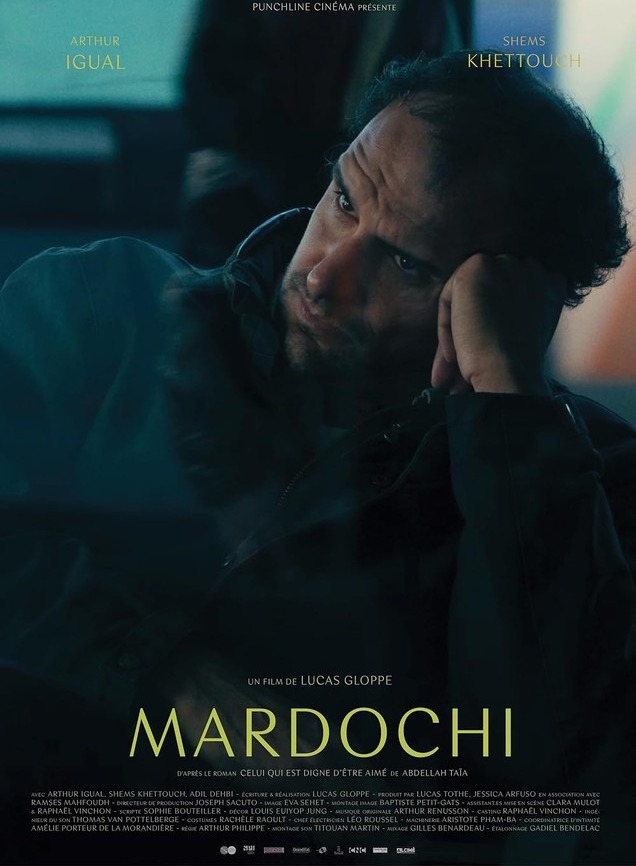
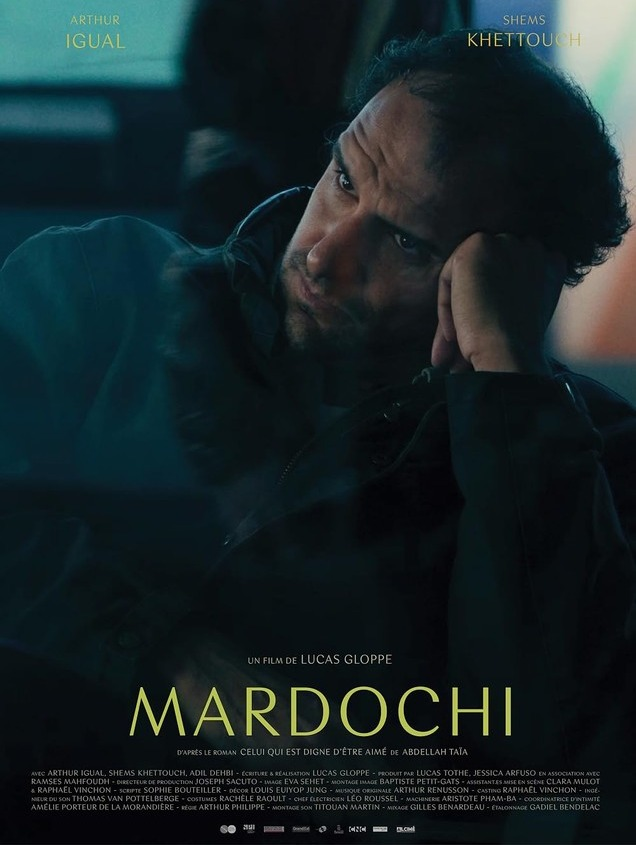
Mardochi: retire seulement Punchline, garde les noms des comédiens avec un peu d'air, même hauteur que les voisines

diff --git a/index.html b/index.html
@@ -119,7 +119,7 @@
         <div class="poster-wall__divider"></div>
         <img class="poster--short" src="assets/wall/la-ligne-de-vie-poster-v15.jpg" alt="Affiche La ligne de vie" loading="lazy" data-film="la-ligne-de-vie">
         <img class="poster--short" src="assets/wall/pauvres-diables-poster.jpg" alt="Affiche Pauvres Diables" loading="lazy" data-film="pauvres-diables">
-        <img class="poster--natural" src="assets/wall/mardochi-poster.jpg" alt="Affiche Mardochi" loading="lazy" data-film="mardochi">
+        <img class="poster--short" src="assets/wall/mardochi-poster.jpg" alt="Affiche Mardochi" loading="lazy" data-film="mardochi">
         <a href="https://www.youtube.com/watch?v=AWiRa7KZY4U" target="_blank" rel="noopener" class="poster-link" data-film="na-marei"><img class="poster--short" src="assets/wall/na-marei-poster.jpg" alt="Affiche Na Marei, l'invisible" loading="lazy"></a>
         <img class="poster--short" src="assets/wall/la-grande-ourse-poster.jpg" alt="Affiche La Grande Ourse" loading="lazy" data-film="la-grande-ourse">
         <img class="poster--short" src="assets/wall/la-voix-de-son-maitre-poster.jpg" alt="Affiche La Voix de son maître" loading="lazy" data-film="la-voix-de-son-maitre">
